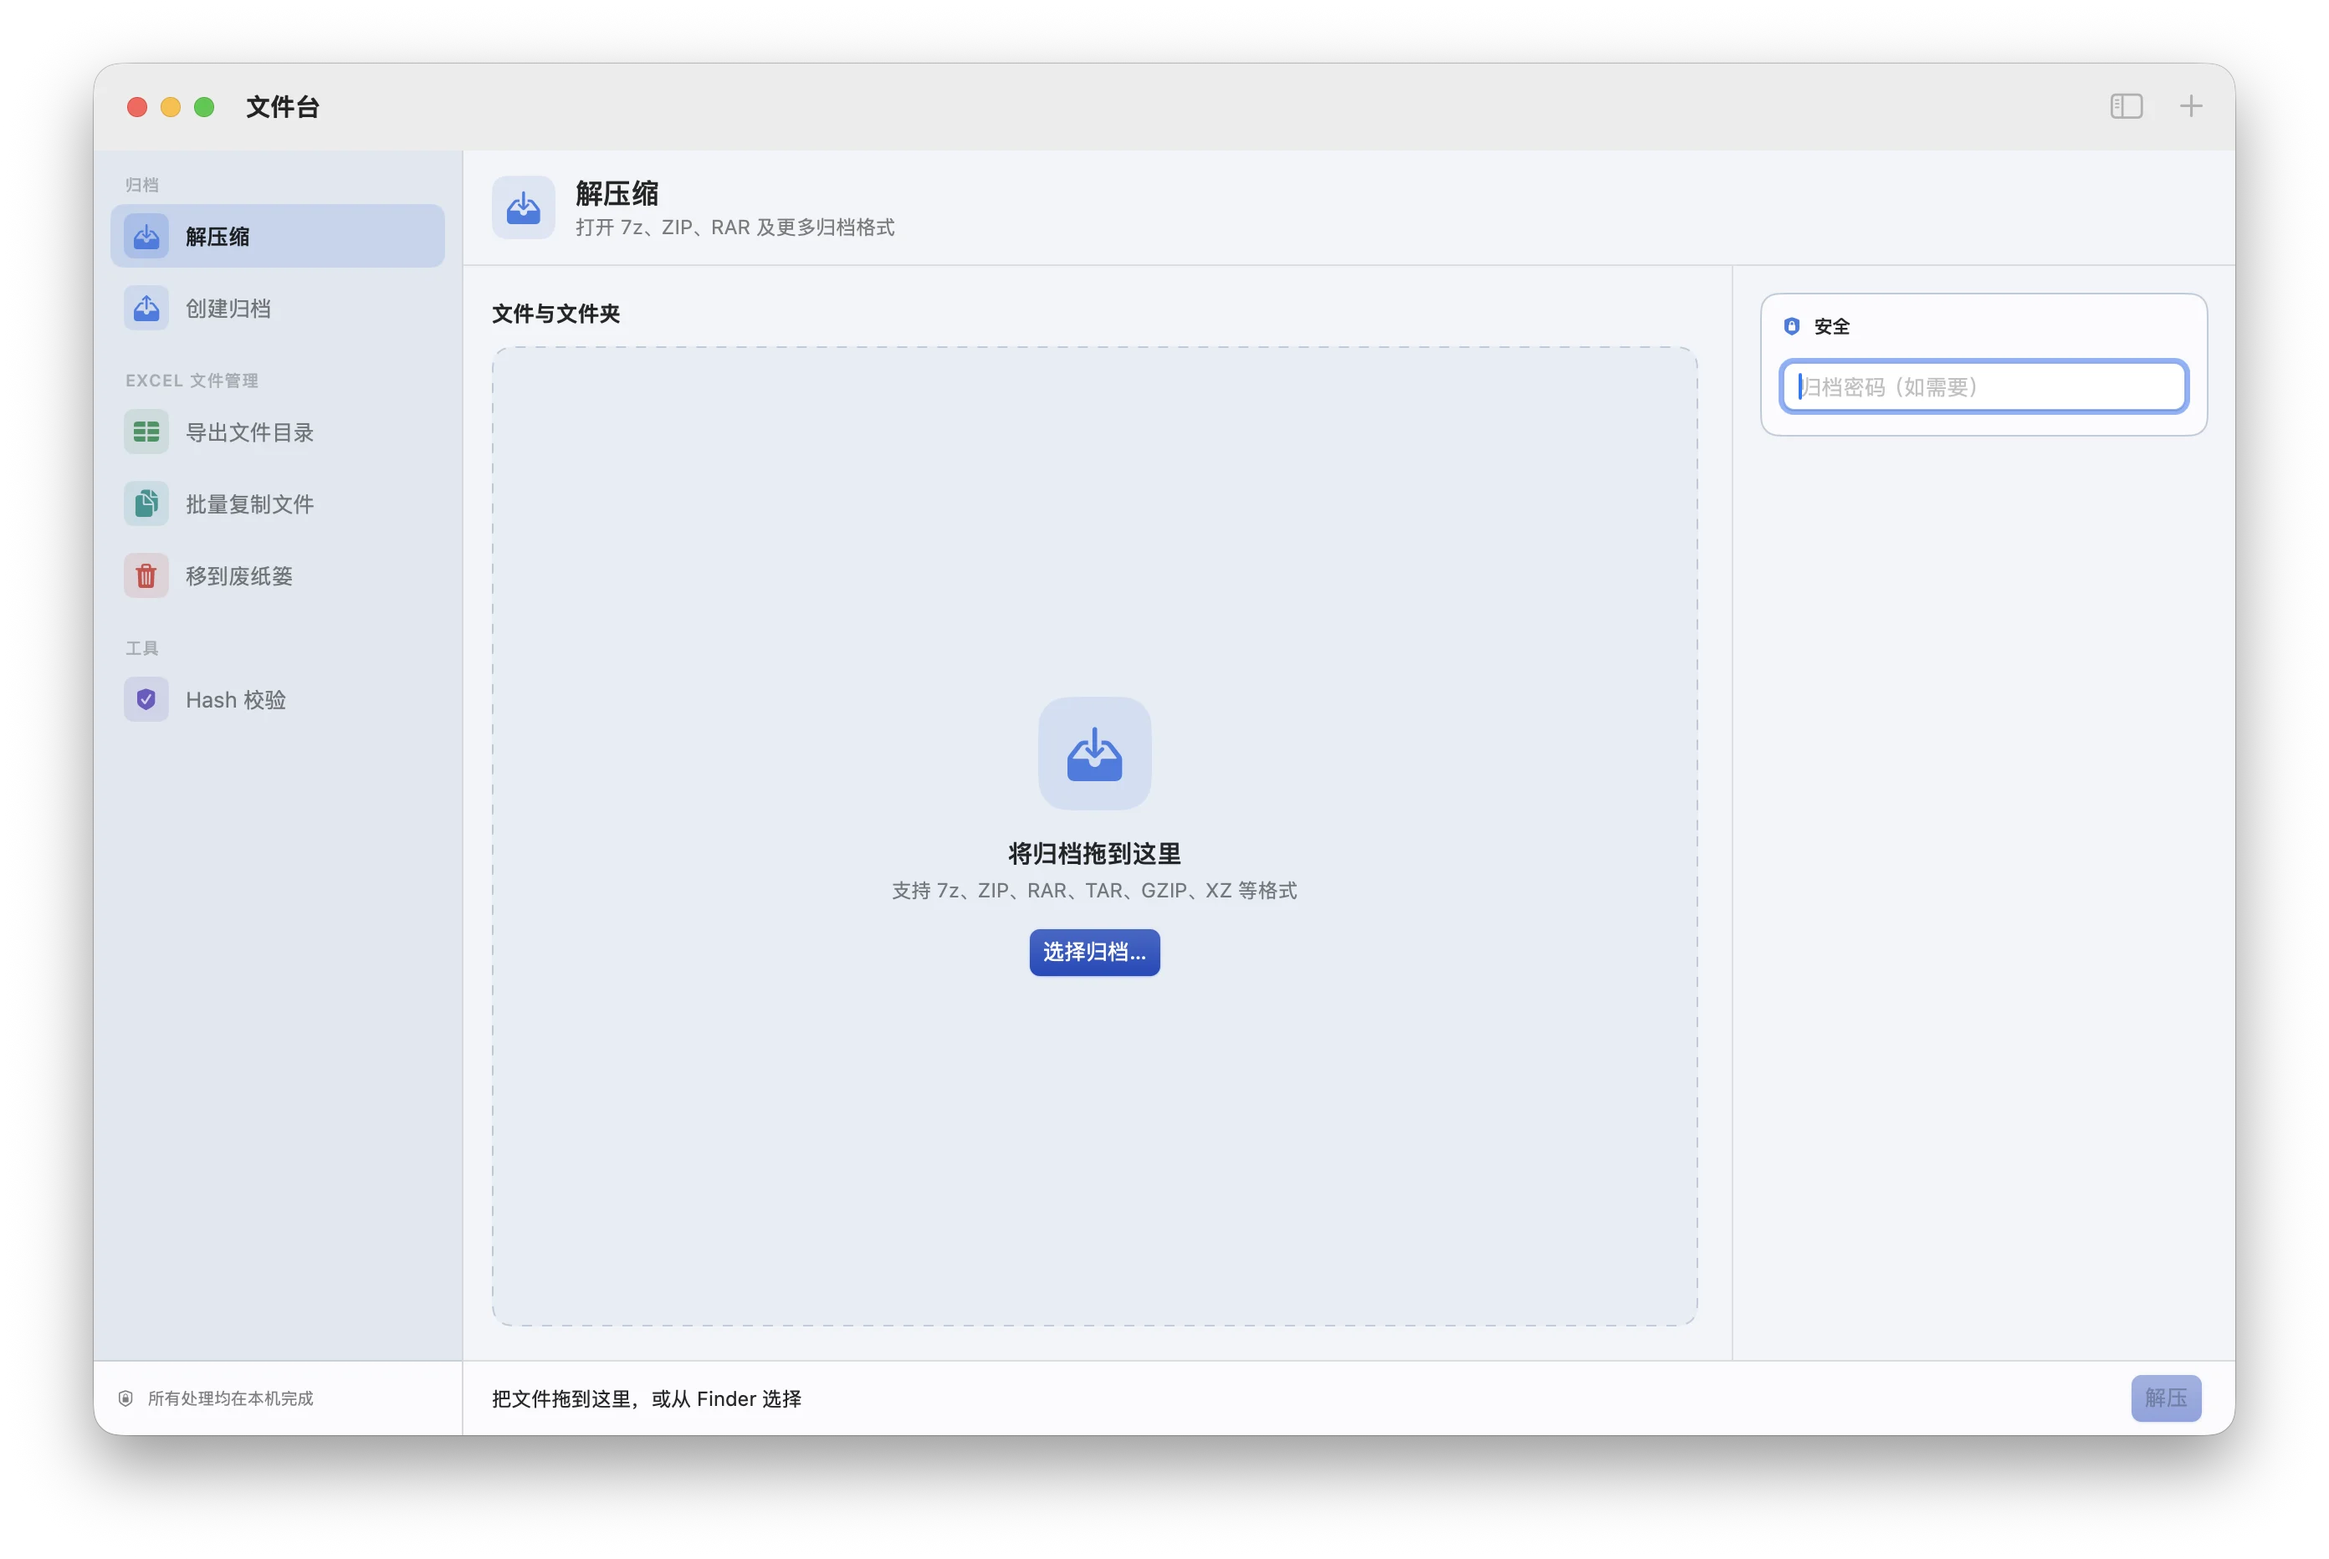
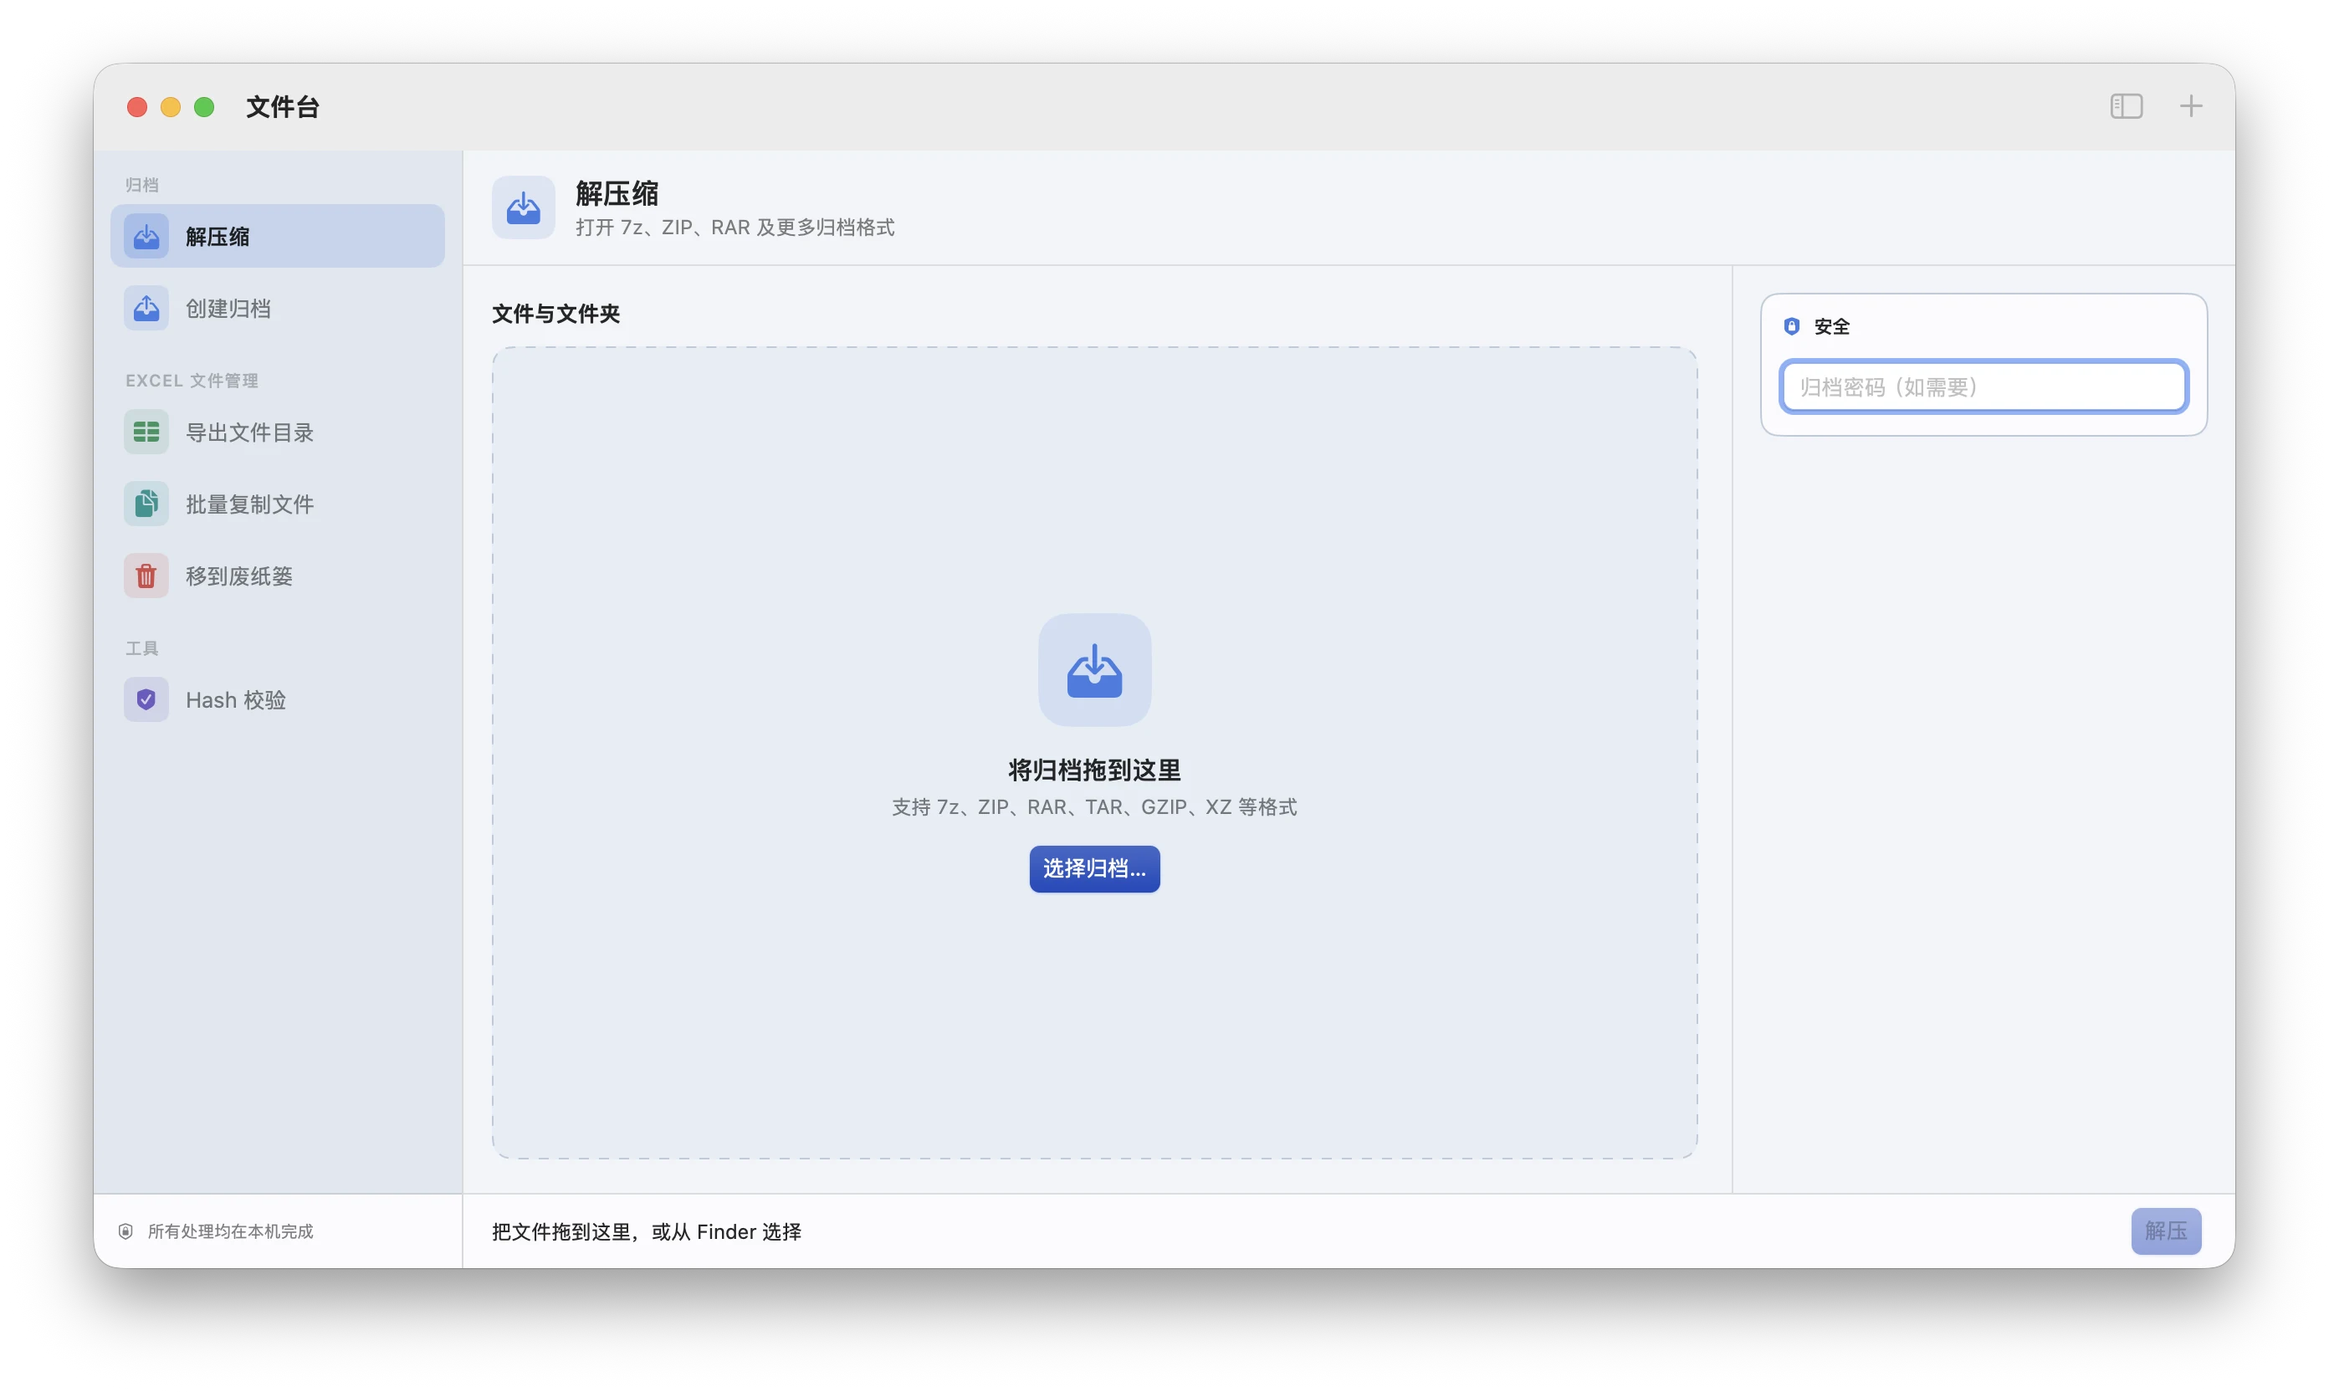
fix(site): preserve product screenshot proportions

diff --git a/docs/en/index.html b/docs/en/index.html
@@ -44,7 +44,7 @@
       <p class="lead">Create, extract, and inspect archives in a native interface. Work directly from Finder, then keep Excel-based file management and hash verification in the same app.</p>
       <div class="actions"><a class="button primary" href="https://github.com/985860612/FileNest/releases/latest">Download for macOS</a><a class="button" href="https://github.com/985860612/FileNest">View source</a></div>
       <p class="meta">macOS 13+ · Apple silicon and Intel · Open source under MIT</p>
-      <figure class="hero-shot"><img src="../app-overview.webp" width="2784" height="1864" alt="FileNest main window with archive, Excel file management, and hash verification tools" fetchpriority="high"></figure>
+      <figure class="hero-shot"><img src="../app-overview.webp" width="2784" height="1664" alt="FileNest main window with archive, Excel file management, and hash verification tools" fetchpriority="high"></figure>
     </section>
     <section class="stats" aria-label="Capability overview"><div><strong>7-Zip SDK</strong><span>In-process archive engine</span></div><div><strong>7z / ZIP / TAR</strong><span>Archive creation</span></div><div><strong>Finder</strong><span>Contextual actions</span></div><div><strong>100% local</strong><span>No uploads or telemetry</span></div></section>
 

diff --git a/docs/index.html b/docs/index.html
@@ -44,7 +44,7 @@
       <p class="lead">用原生界面完成压缩、解压和归档浏览；在 Finder 右键直接操作文件，再把 Excel 文件管理与 Hash 校验收进同一个工作台。</p>
       <div class="actions"><a class="button primary" href="https://github.com/985860612/FileNest/releases/latest">下载 macOS 版</a><a class="button" href="https://github.com/985860612/FileNest">查看源码</a></div>
       <p class="meta">macOS 13+ · Apple silicon 与 Intel · MIT 开源</p>
-      <figure class="hero-shot"><img src="app-overview.webp" width="2784" height="1864" alt="FileNest 文件台主界面，包含解压缩、创建归档、Excel 文件管理和 Hash 校验" fetchpriority="high"></figure>
+      <figure class="hero-shot"><img src="app-overview.webp" width="2784" height="1664" alt="FileNest 文件台主界面，包含解压缩、创建归档、Excel 文件管理和 Hash 校验" fetchpriority="high"></figure>
     </section>
     <section class="stats" aria-label="能力概览"><div><strong>7-Zip SDK</strong><span>进程内归档内核</span></div><div><strong>7z / ZIP / TAR</strong><span>创建归档</span></div><div><strong>Finder</strong><span>右键快速操作</span></div><div><strong>100% 本地</strong><span>无上传、无遥测</span></div></section>
 

diff --git a/docs/styles.css b/docs/styles.css
@@ -49,7 +49,7 @@ h3 { margin-bottom: 8px; font-size: 22px; letter-spacing: -.025em; }
 .button.primary:hover { background: var(--blue-hover); }
 .meta { margin: 15px 0 0; color: var(--muted); font-size: 12px; }
 
-.hero-shot { margin: 58px 0 0; padding: clamp(9px, 1.2vw, 14px); border-radius: 26px; background: linear-gradient(145deg, #dce7fa, #b8c9e8); box-shadow: 0 26px 70px rgba(31, 65, 122, .18); }
+.hero-shot { width: min(100%, 980px); margin: 48px auto 0; padding: clamp(7px, 1vw, 11px); border-radius: 24px; background: linear-gradient(145deg, #dce7fa, #b8c9e8); box-shadow: 0 22px 56px rgba(31, 65, 122, .16); }
 .hero-shot img { width: 100%; border-radius: 17px; }
 .stats { display: grid; grid-template-columns: repeat(4, 1fr); overflow: hidden; border-radius: 24px; background: var(--surface); }
 .stats div { display: flex; min-height: 126px; padding: 24px; flex-direction: column; align-items: center; justify-content: center; text-align: center; }
